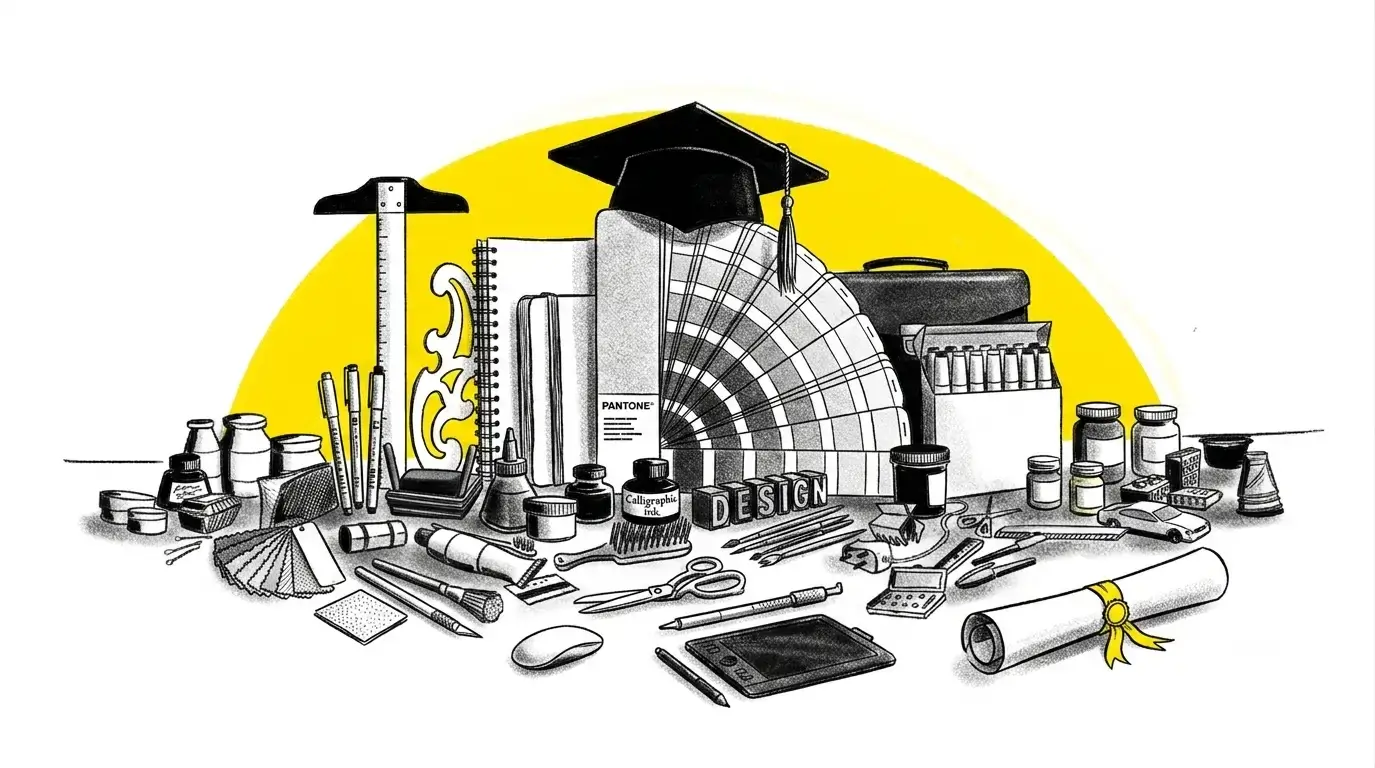
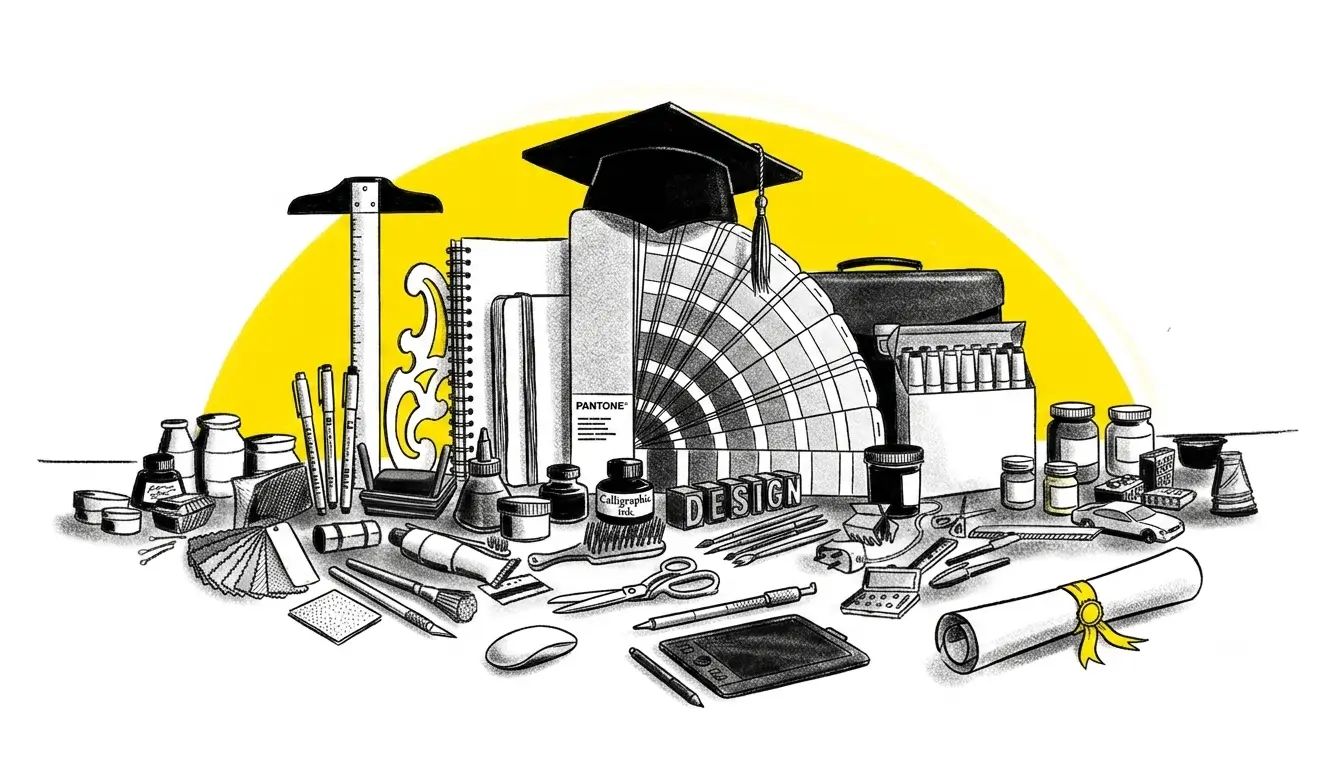
Add files via upload

diff --git a/script.js b/script.js
@@ -195,20 +195,6 @@
         pointRadius: 5,
         pointHoverRadius: 5,
       },
-      {
-        label: "Línea de referencia",
-        type: "line",
-        data: [
-          { x: 3500000, y: 0 },
-          { x: 11000000, y: 550000 },
-        ],
-        borderColor: "rgba(102,102,102,.2)",
-        borderWidth: 1,
-        pointRadius: 0,
-        pointHoverRadius: 0,
-        fill: false,
-        tension: 0,
-      },
     ],
   },
   options: {

diff --git a/index.html b/index.html
@@ -33,7 +33,7 @@
             <h3>DISEÑO EN CHILE</h3>
             <h1>Lo que cuesta estudiar diseño en Chile</h1>
             <h2>Acreditación, arancel y titulación: tres variables que no siempre van juntas</h2>
-             <address>Por <a href="https://github.com/vicentemedinat">Vicente Medina</a>, <a href="#">Gastón Meneses</a> y <a href="https://github.com/profesorfaco">Felipe Cortez</a></address>
+             <address>Por <a href="https://github.com/vicentemedinat">Vicente Medina</a>, <a href="https://github.com/Gas36">Gastón Meneses</a> y <a href="https://github.com/profesorfaco">Felipe Cortez</a></address>
             <time>Publicado el 26 de mayo, 2026 06:00 p.m. GMT-4</time>
         </header>
 